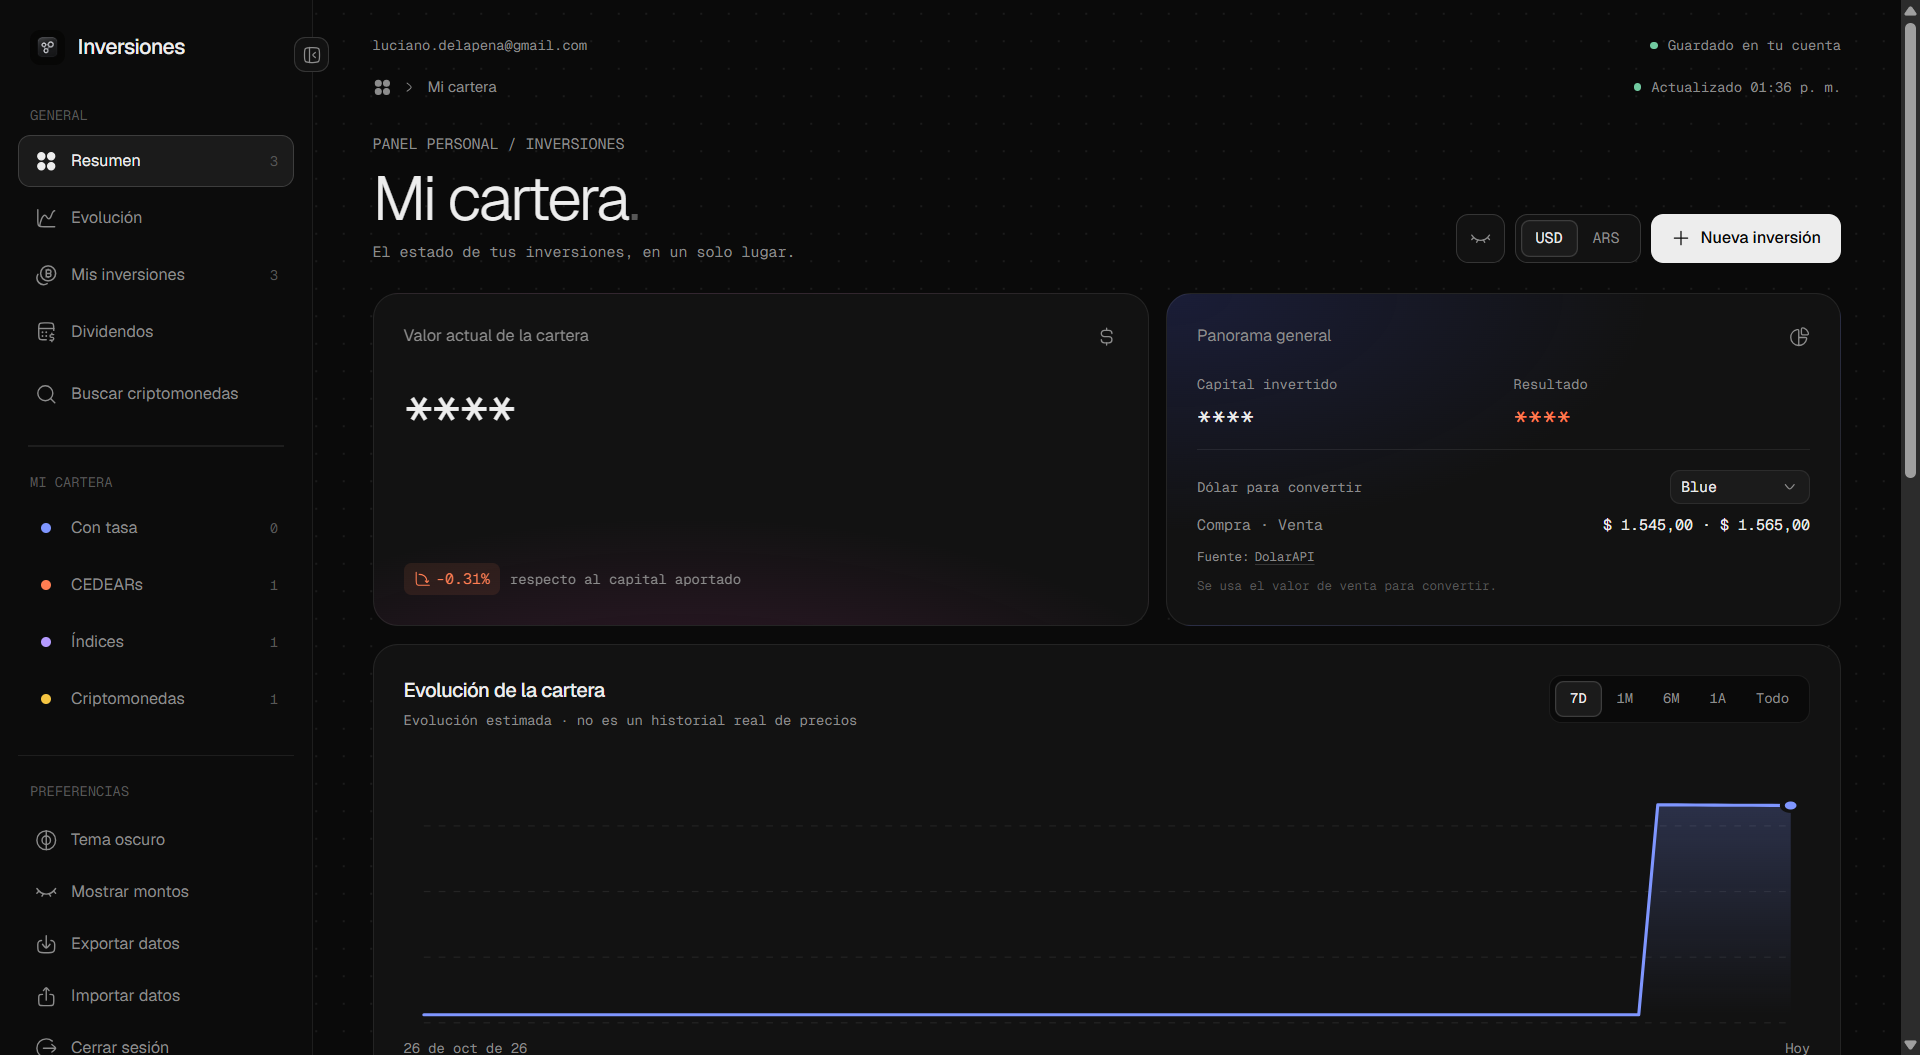
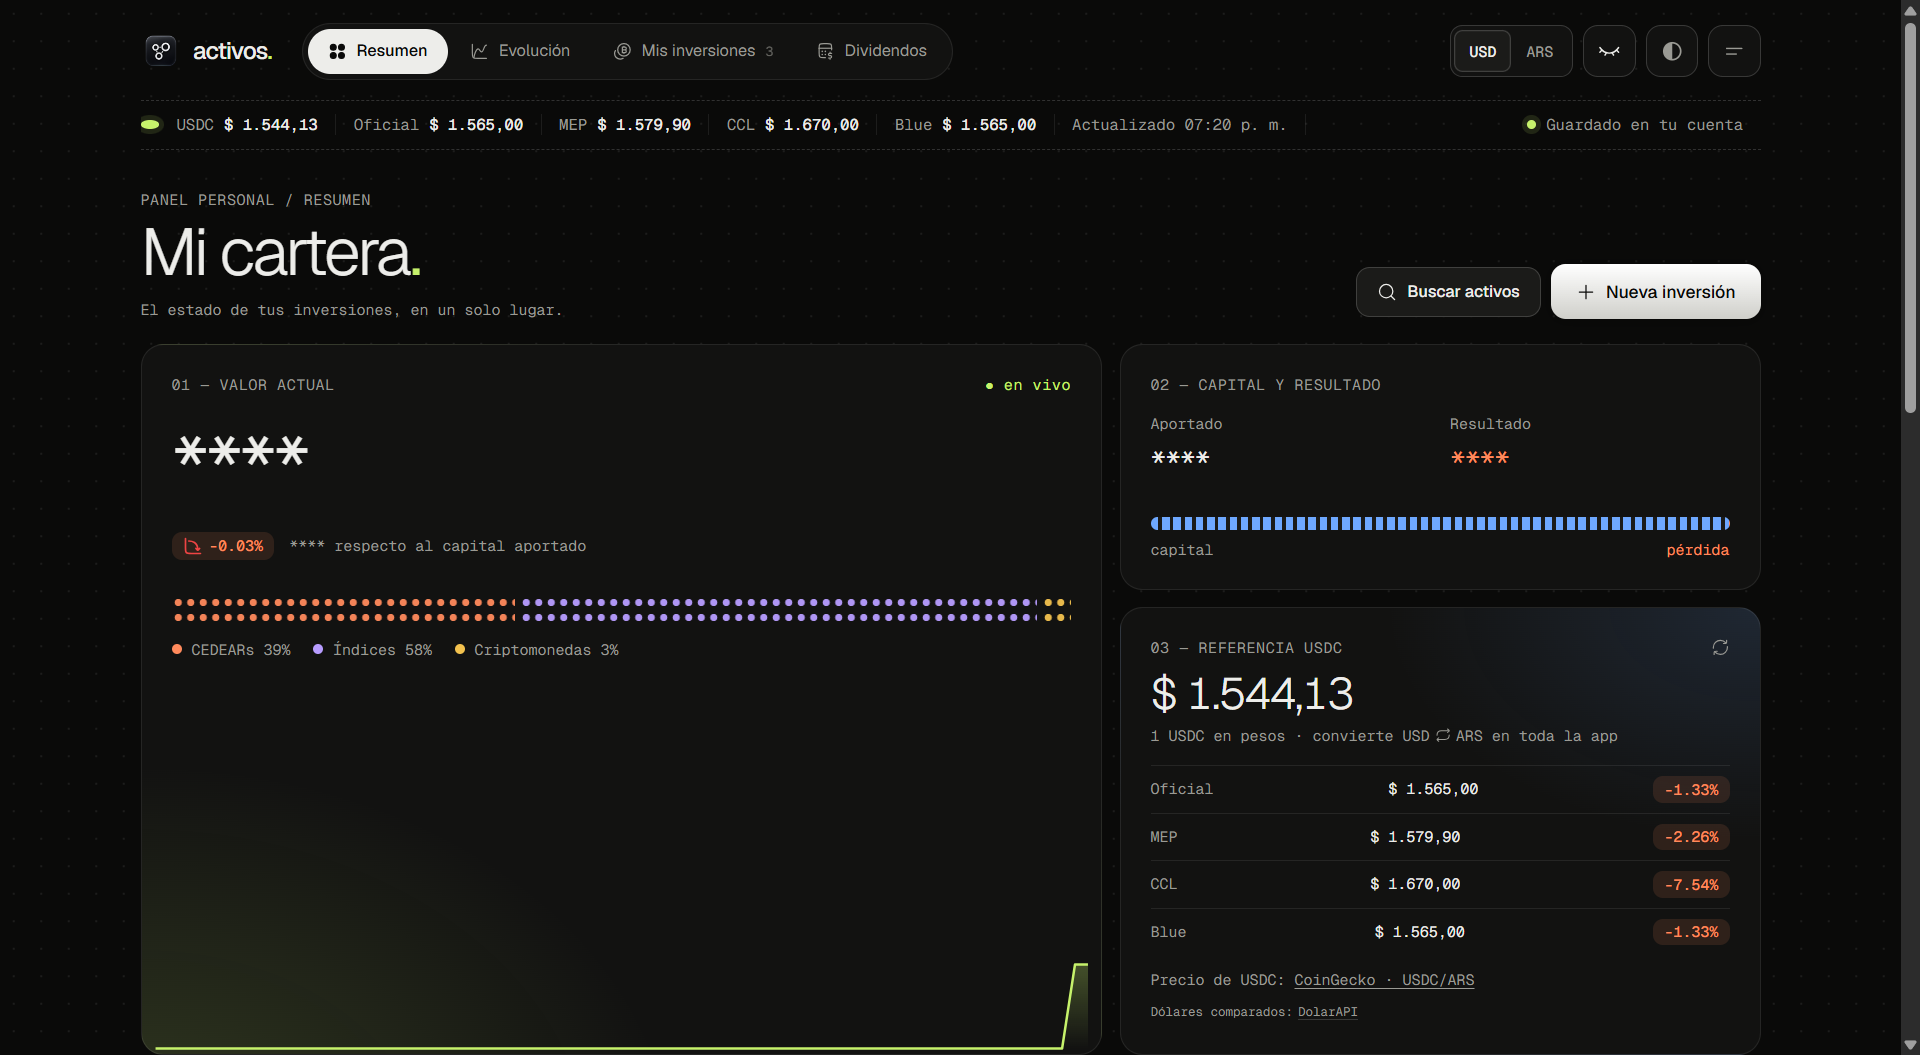
fx activos

diff --git a/src/components/icons/icons.tsx b/src/components/icons/icons.tsx
@@ -73,7 +73,7 @@ export function Sms({ className = "", size = 24, color = "currentColor", }: Icon
 export function X({ className = "", size = 24, color = "currentColor", }: Icons) {
     return (
         <svg xmlns="http://www.w3.org/2000/svg" width={size} height={size} className={className} viewBox="0 0 24 24" fill="none">
-            <path d="M18 6L12 12M12 12L6 18M12 12L18 18M12 12L6 6" stroke={color} strokeWidth="1.5" strokeLinecap="round" strokeLinejoin="round"></path>
+            <path d="M18 6L12 12M12 12L6 18M12 12L18 e18M12 12L6 6" stroke={color} strokeWidth="1.5" strokeLinecap="round" strokeLinejoin="round"></path>
         </svg>
     );
 }
